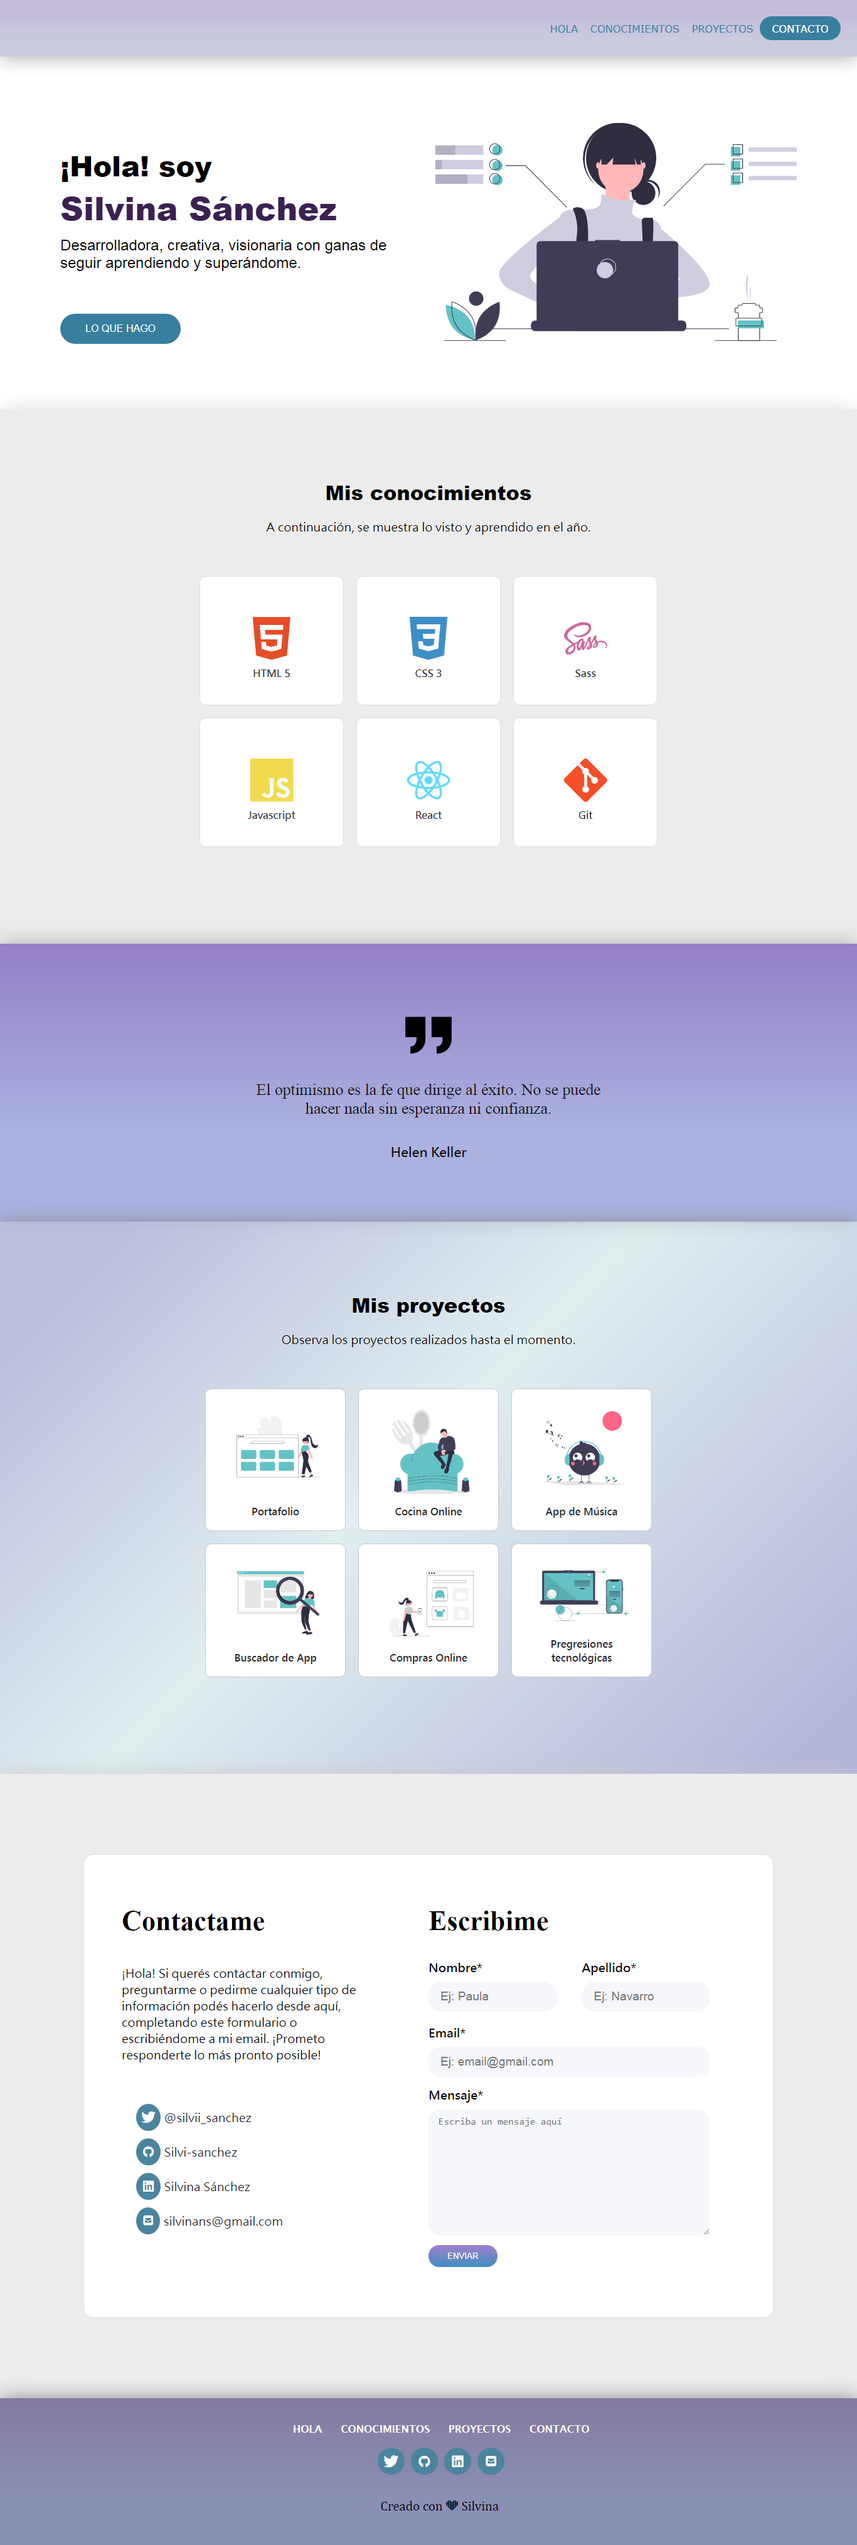
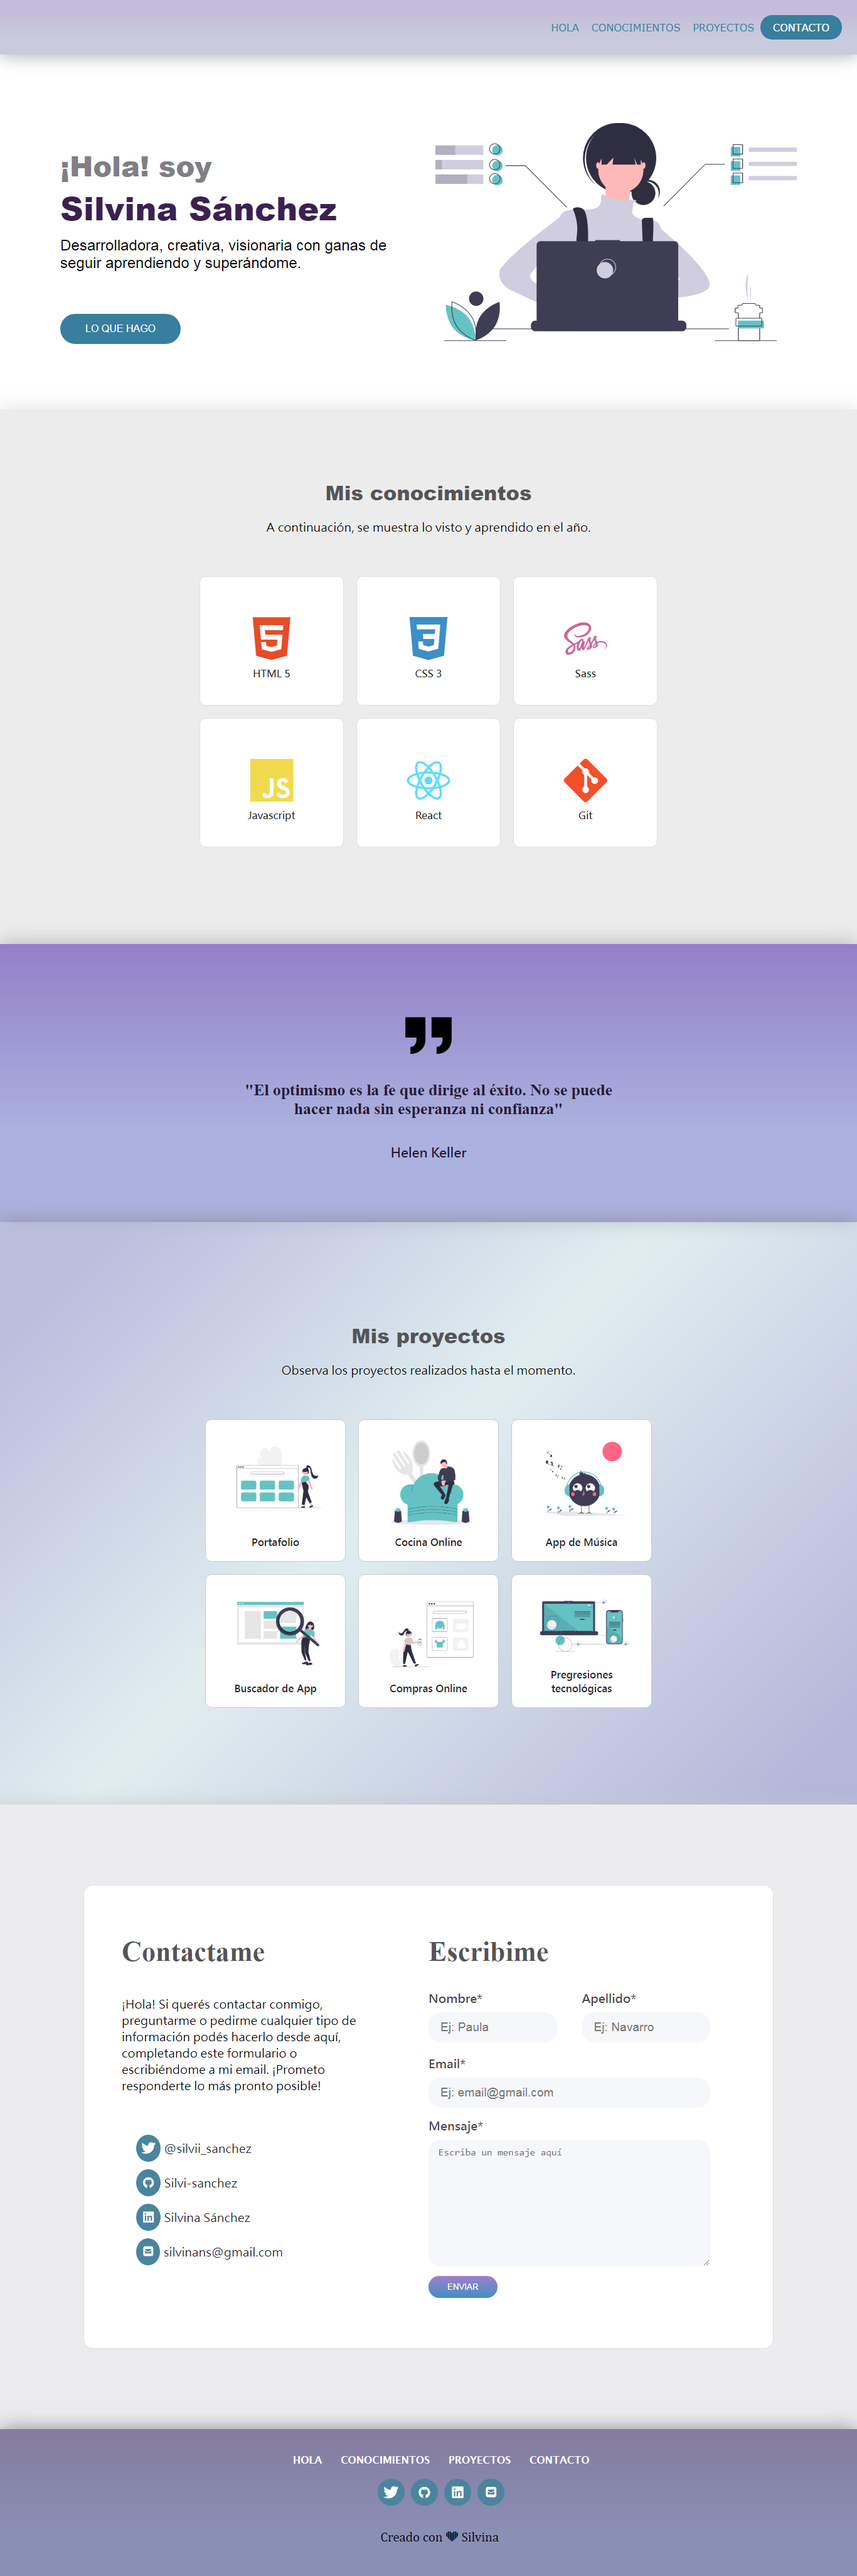
Last Final Changes

diff --git a/css/SobreMi.css b/css/SobreMi.css
@@ -1,7 +1,7 @@
 :root{
   --first-color: #387E9E;
   --second-color: #836291;
-  --tittle-color:	#939097;
+  --tittle-color:	#817e86;
 }
 
 .sobremi-section{
